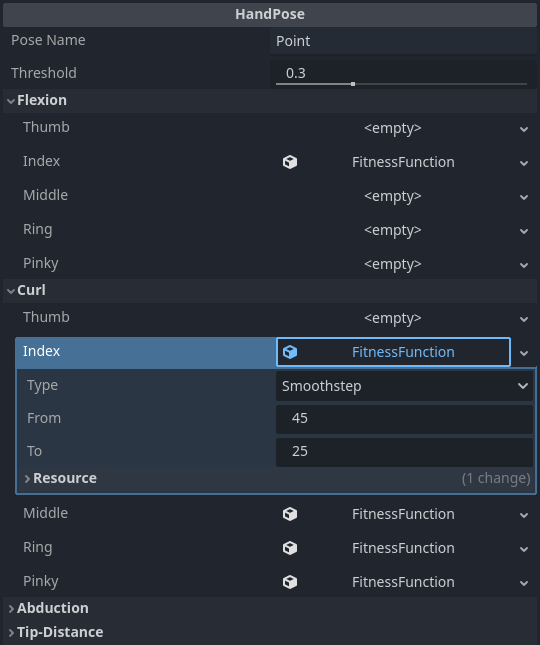
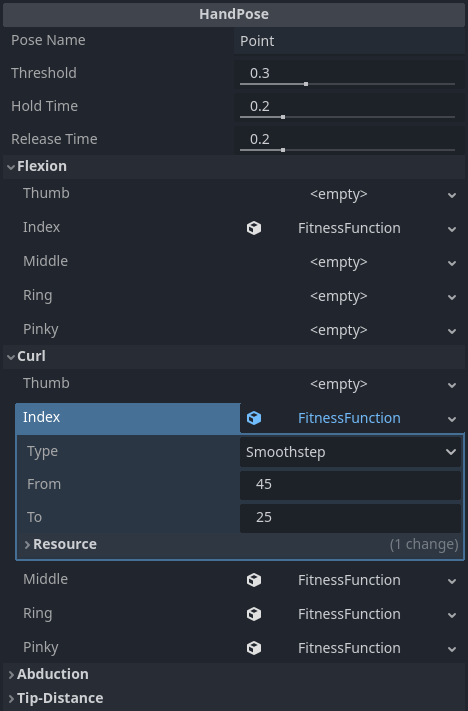
This PR adds debouncing to poses. (#8)

diff --git a/README.md b/README.md
@@ -67,6 +67,8 @@ New hand poses can be made by creating new Hand Pose Resource instances.
 Hand Pose Resources consist of:
 * A Pose Name (reported in the pose detector signals)
 * A Threshold (a minimal fitness threshold to report the pose)
+* A Hold Time (a debounce time necessary to register the pose)
+* A Release Time (a debounce time necessary to release the pose)
 * A set of fitness functions to apply to each pose component
 
 
@@ -106,7 +108,7 @@ The Range function provides non-zero values in a finite range.
 
 ## Designing and Tuning
 
-The inspect scene provided in the demo project can be used to inspect the flexion, curl, abduction, and tip-distance of a hand, and can also inspect a selected hand pose to diagnose the fitness of the rules.
+The inspect scene provided in the demo project can be used to inspect the flexion, curl, abduction, and tip-distance of a hand, and can also inspect a selected hand pose to diagnose the fitness of each component.
 
 ![Inspect Scene](/docs/inspect_scene.png)
 

diff --git a/VERSIONS.md b/VERSIONS.md
@@ -1,5 +1,6 @@
-# 1.2.0
+# 1.2.0 (in progress)
 - Added hand pose controller capable of generating XR input actions
+- Added debounce hold and release times for poses
 
 # 1.1.0
 - Moved fitness function to separate resource
